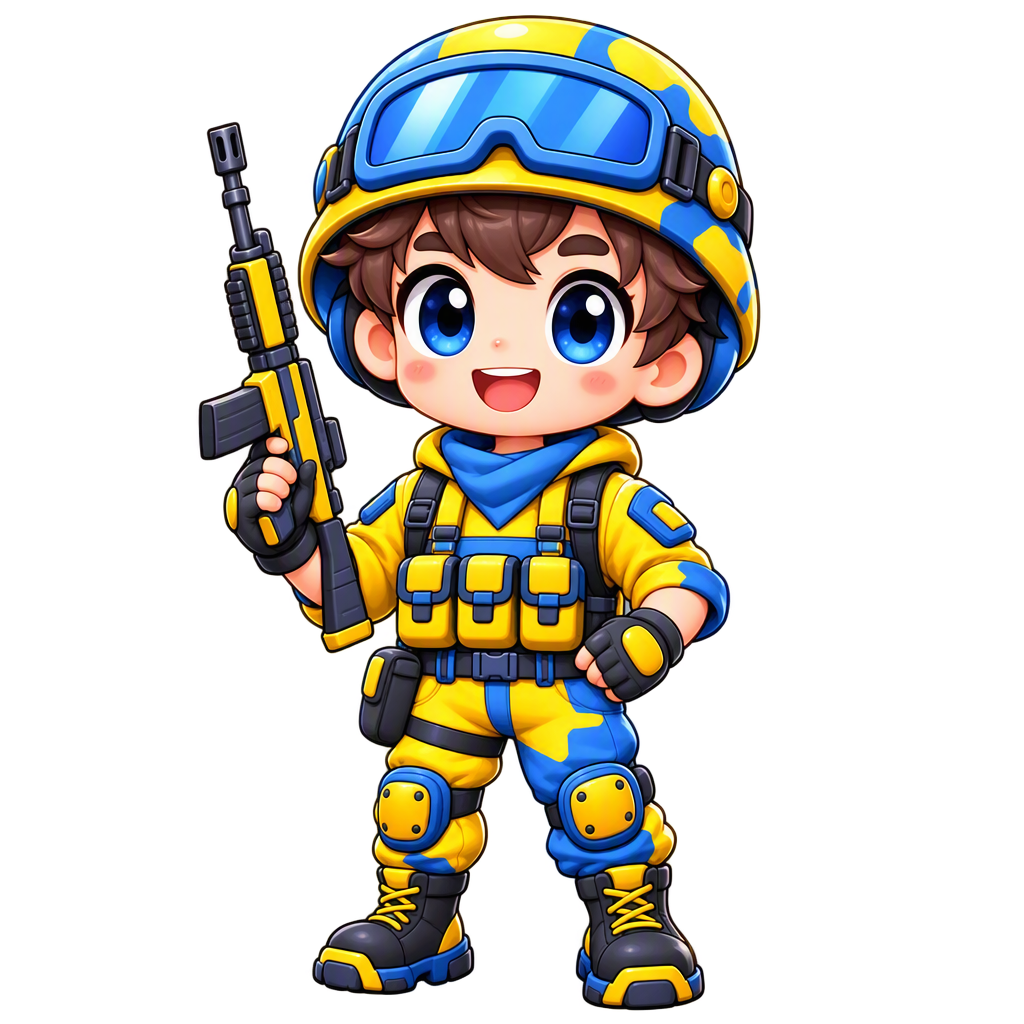
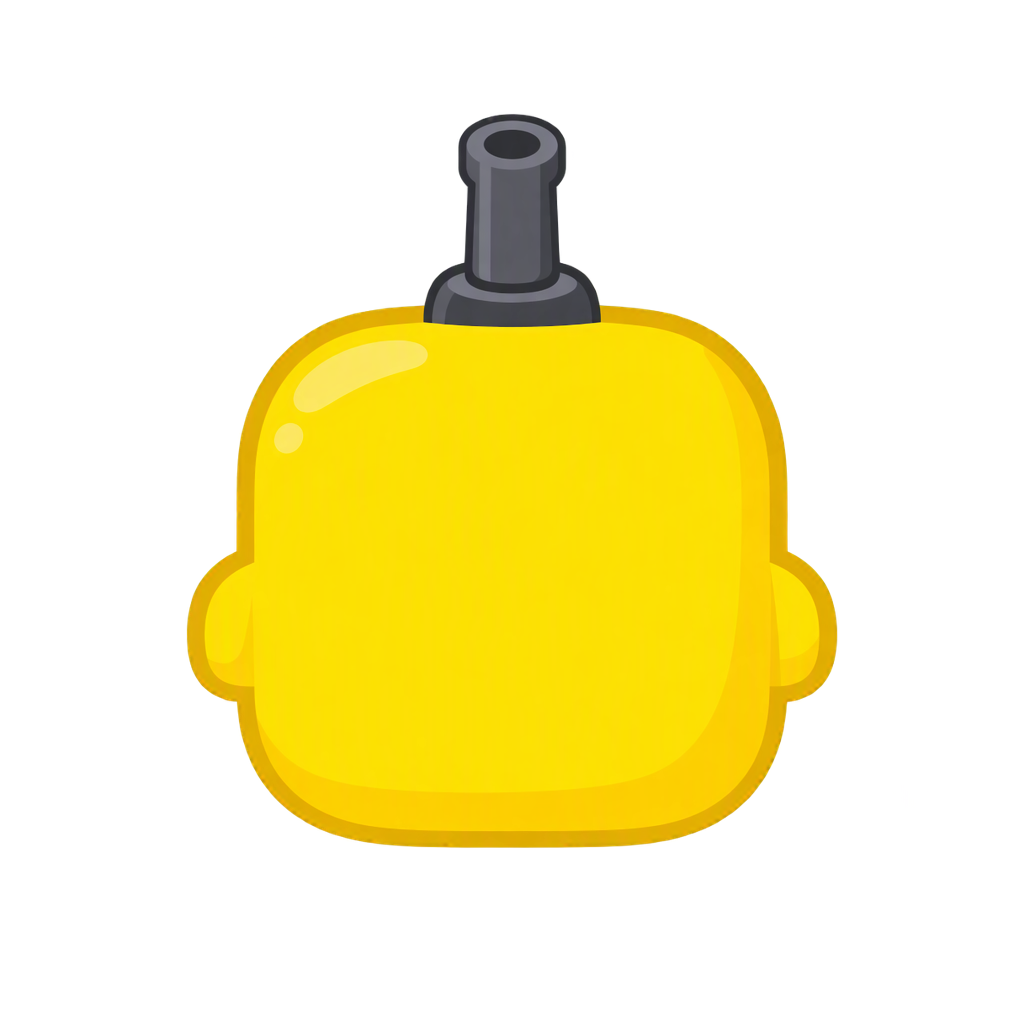
v2.7.0: 默认基础版接入朴素 AI 黄方块角色

diff --git a/src/game/scenes/ThemeScene.ts b/src/game/scenes/ThemeScene.ts
@@ -90,17 +90,20 @@ export class ThemeScene extends BaseScene {
     // masked to the rounded card top), else the two-band gradient above.
     const bgKey = resolveThemeBg(theme.id, (key) => this.textures.exists(key) && !this.failedSprites.has(key));
     if (bgKey) {
-      const img = this.add.image(x, y - CARD_H / 2 + PREVIEW_H / 2, bgKey);
+      // Add to the card (not the scene) so the character preview draws on top.
+      const img = this.add.image(0, -CARD_H / 2 + PREVIEW_H / 2, bgKey);
       img.setScale(Math.max((CARD_W - 6) / img.width, (PREVIEW_H - 6) / img.height));
       const maskG = this.make.graphics({ x: 0, y: 0 }, false);
       maskG.fillRoundedRect(x - CARD_W / 2 + 3, y - CARD_H / 2 + 3, CARD_W - 6, PREVIEW_H - 6, { tl: 15, tr: 15, bl: 0, br: 0 });
       img.setMask(maskG.createGeometryMask());
+      card.add(img);
     }
 
-    // Character sprite preview; the base edition (sky) previews the v1
-    // procedural yellow block, other themes fall back to an octagon while
-    // their art is missing.
-    const hasSprite = theme.id !== 'sky' && this.textures.exists(theme.sprite) && !this.failedSprites.has(theme.sprite);
+    // Character sprite preview; each theme shows its own sprite when loaded.
+    // The base edition (sky) previews the naive AI yellow block when present,
+    // else the v1 procedural yellow block; other themes fall back to an
+    // octagon while their art is missing.
+    const hasSprite = this.textures.exists(theme.sprite) && !this.failedSprites.has(theme.sprite);
     if (hasSprite) {
       card.add(this.add.image(0, -CARD_H / 2 + PREVIEW_H / 2, theme.sprite).setDisplaySize(76, 76));
     } else if (theme.id === 'sky') {

diff --git a/src/game/config/themes.ts b/src/game/config/themes.ts
@@ -263,17 +263,17 @@ export function themeColors(): ThemeColors {
 }
 
 /**
- * Player sprite fallback chain: the active theme's sprite -> the sky sprite
- * -> null (caller falls back to the procedural block). `available` reports
- * whether a texture key is loaded and intact.
+ * Player sprite fallback chain: the theme's own sprite -> null (caller falls
+ * back to the procedural block). `available` reports whether a texture key
+ * is loaded and intact.
  *
  * Art principle: the default theme (sky) IS the v1 base edition and keeps
- * the plain procedural yellow block — themed AI sprites are the paid skins.
- * (An AI-drawn "naive yellow block" may replace the procedural one later,
- * but it must keep the v1 look.)
+ * the plain naive yellow block look — now drawn by an AI "naive yellow
+ * block" sprite (`player-sky`) when it loads, with the procedural block as
+ * the fallback. Themed AI sprites are the paid skins and never fall back to
+ * the sky sprite.
  */
 export function resolvePlayerSprite(themeId: string, available: (key: string) => boolean): string | null {
-  if (themeId === DEFAULT_THEME_ID) return null;
   const primary = playerSpriteKey(themeId);
   if (available(primary)) return primary;
   return null;

diff --git a/tests/themes.test.ts b/tests/themes.test.ts
@@ -107,8 +107,12 @@ describe('resolvePlayerSprite fallback chain', () => {
     expect(resolvePlayerSprite('lava', available('player-sky'))).toBeNull();
   });
 
-  it('the base edition (sky) always uses the procedural yellow block', () => {
-    expect(resolvePlayerSprite('sky', available('player-sky'))).toBeNull();
+  it('the base edition (sky) uses the naive AI yellow block when it loads', () => {
+    expect(resolvePlayerSprite('sky', available('player-sky'))).toBe('player-sky');
+  });
+
+  it('the base edition (sky) falls back to the procedural yellow block when its sprite is missing', () => {
+    expect(resolvePlayerSprite('sky', available())).toBeNull();
   });
 
   it('returns null (procedural fallback) when every sprite is missing', () => {

diff --git a/CHANGELOG.md b/CHANGELOG.md
@@ -5,6 +5,14 @@
 格式基于 [Keep a Changelog](https://keepachangelog.com/zh-CN/1.0.0/)，
 本项目遵循 [语义化版本控制](https://semver.org/spec/v2.0.0.html)。
 
+## [2.7.0] - 2026-09-16
+
+### 新增 ✨
+- **基础版朴素 AI 黄方块**：默认主题（sky）角色由程序块升级为 AI 绘制的朴素黄色小方块（圆润方块 + 顶部小枪管，无脸无四肢，保持 v1 朴素基准，非付费皮肤级人物）；图片加载失败时仍自动回退程序黄方块
+
+### 修复 🐛
+- **主题商店卡片角色被背景图遮挡**：主题背景 AI 图此前直接挂在场景层、压在卡片容器之上，导致各卡片角色预览被盖住；现改为挂入卡片容器内部，角色预览正常显示
+
 ## [2.6.0] - 2026-09-16
 
 ### 新增 ✨
